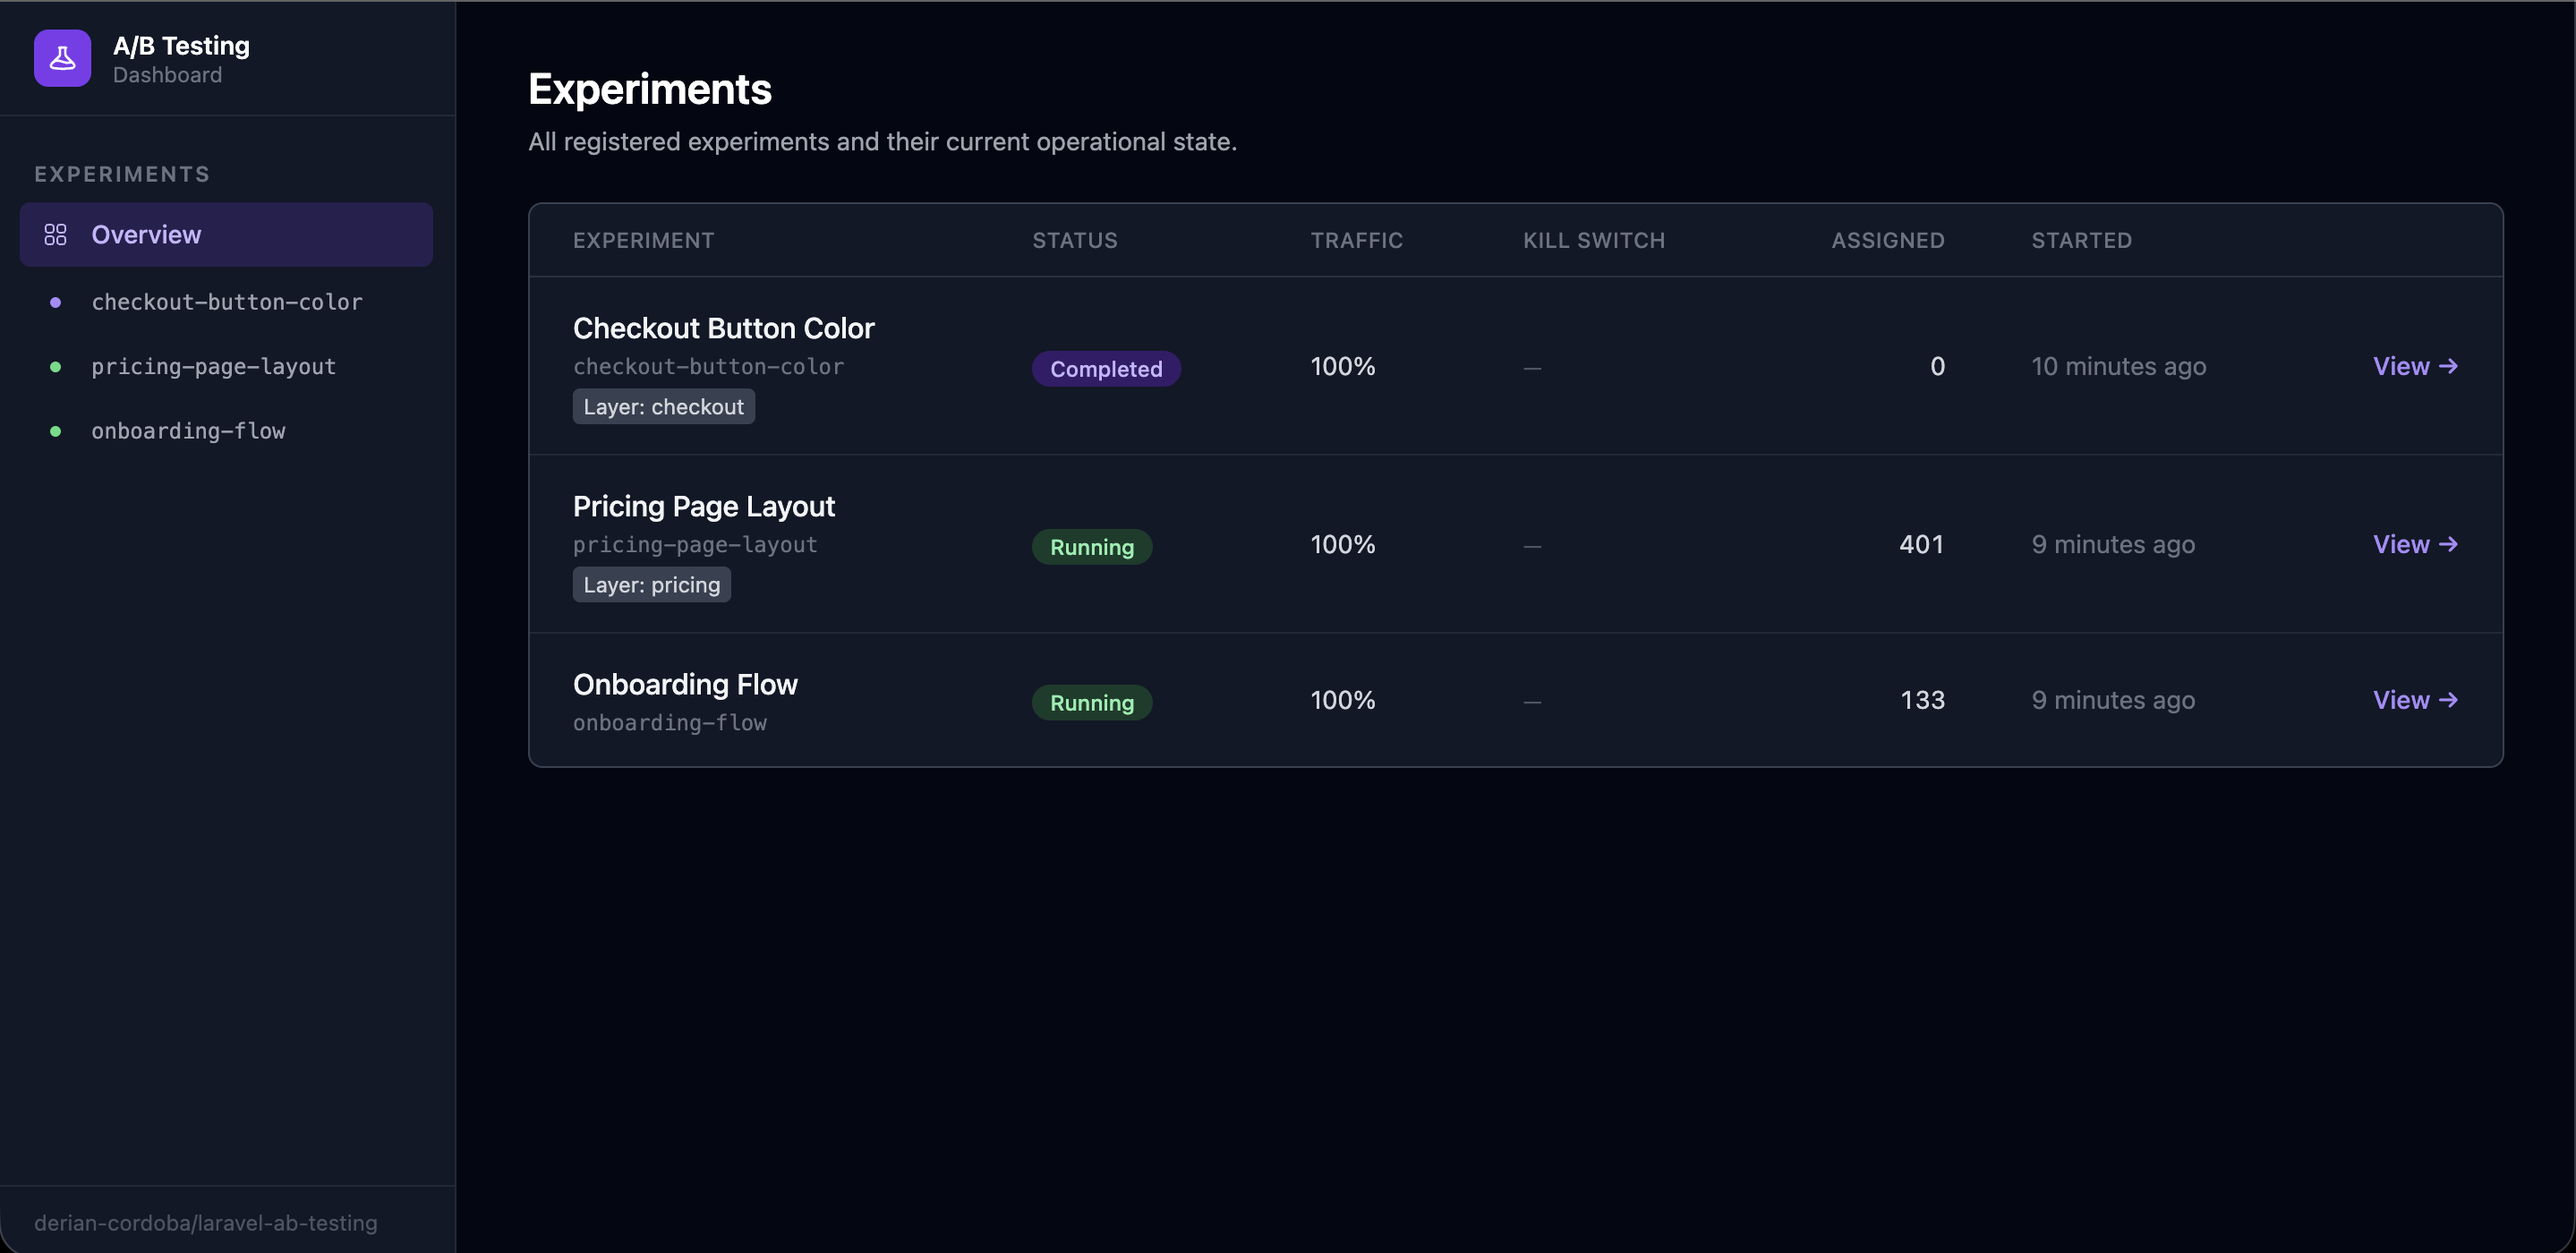
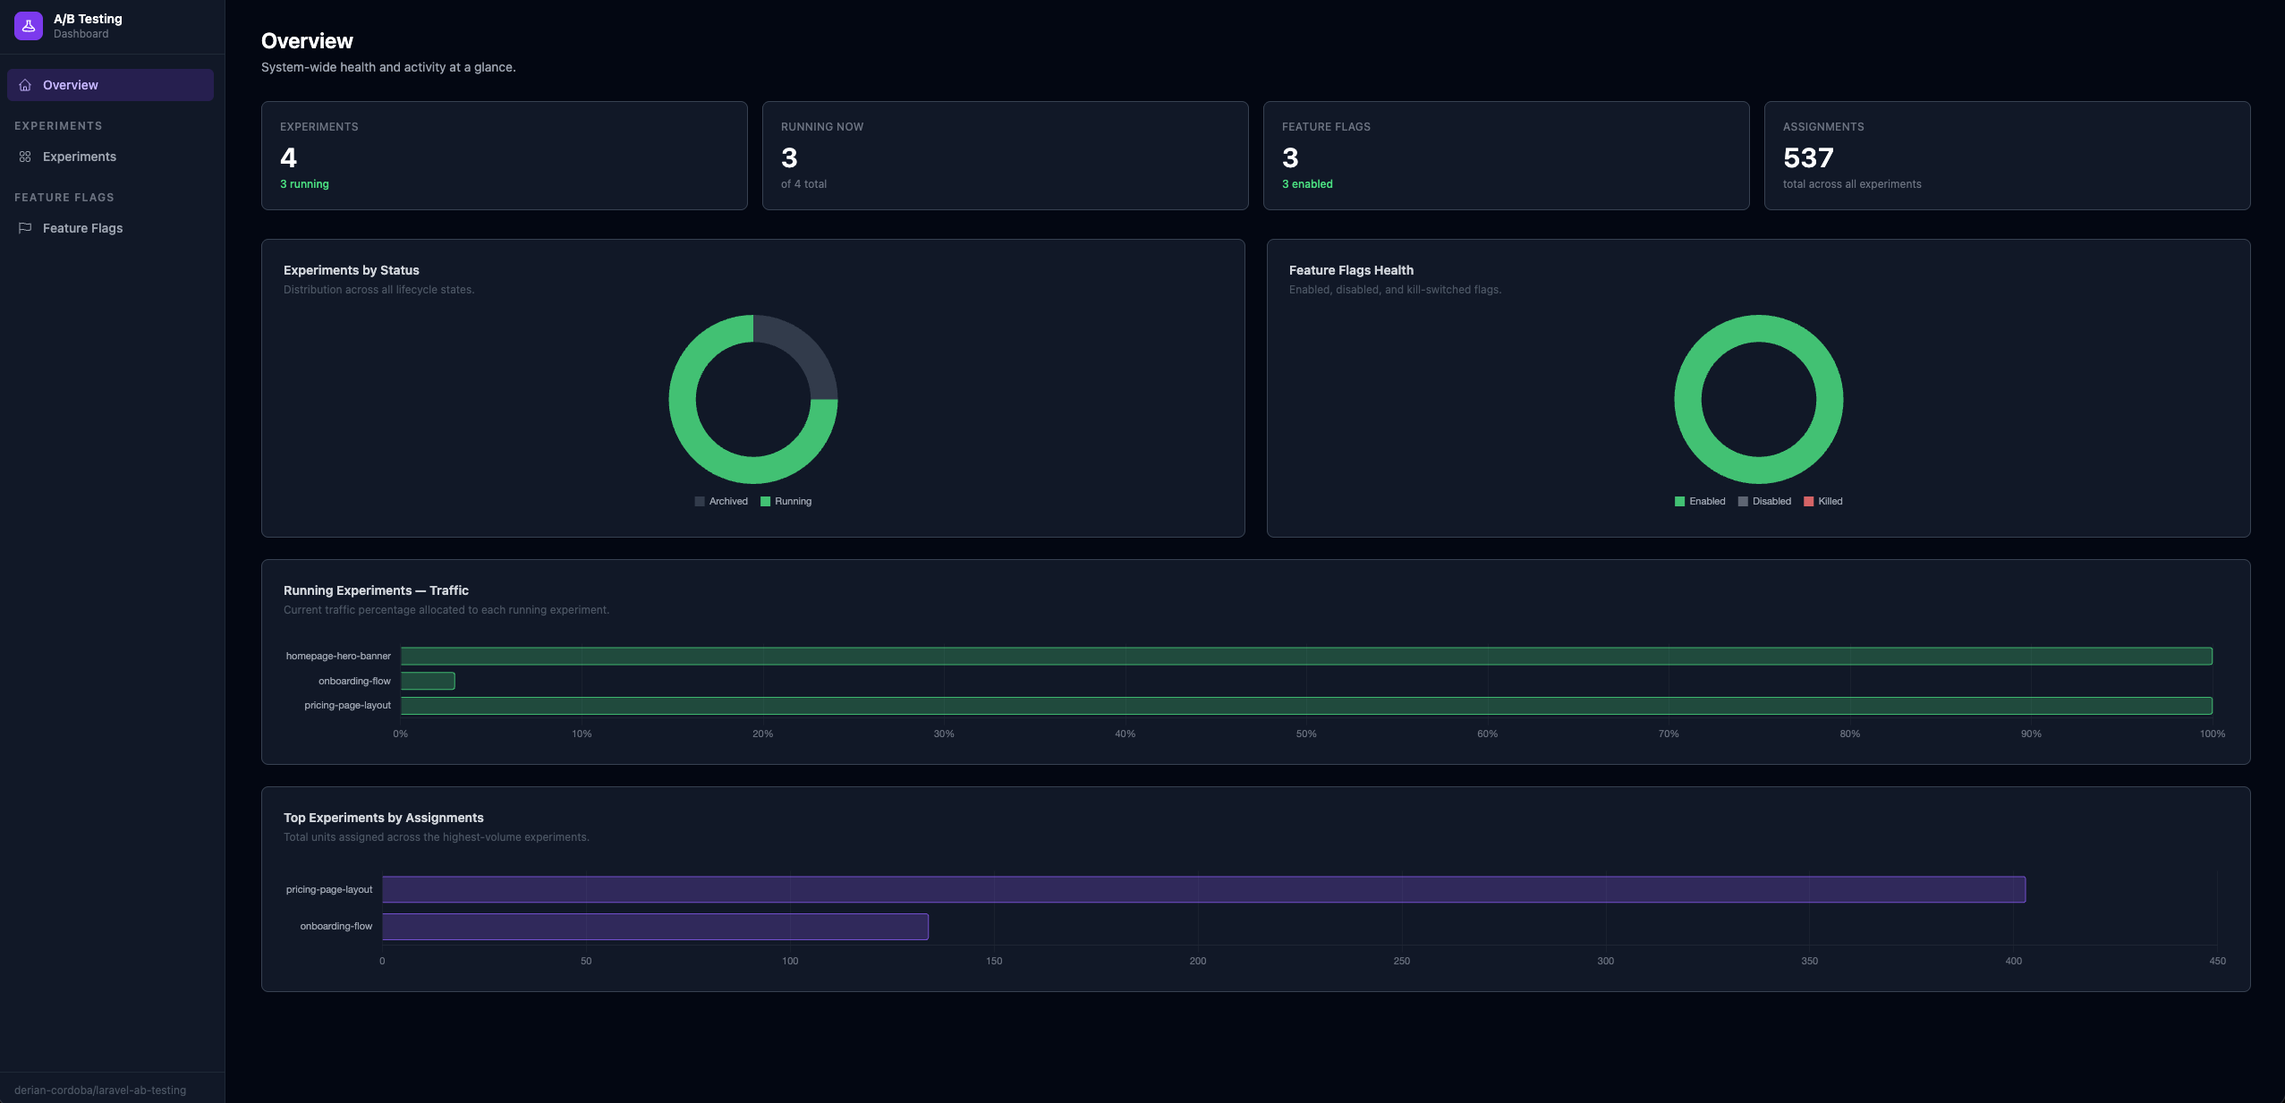
docs: updated README file

diff --git a/README.md b/README.md
@@ -171,6 +171,7 @@ use ABTests\Metric;
 )]
 final class CheckoutConversion extends Metric
 {
+    //
 }
 ```
 
@@ -459,7 +460,7 @@ return [
     'discovery' => [
         'enabled' => false,
         'paths' => [
-            // app_path('ABTesting/Experiments'),
+            // app_path('Experiments'),
         ],
     ],
 ];
@@ -682,7 +683,7 @@ Example config:
 'discovery' => [
     'enabled' => true,
     'paths' => [
-        app_path('ABTesting/Experiments'),
+        app_path('Experiments'),
     ],
 ],
 ```
